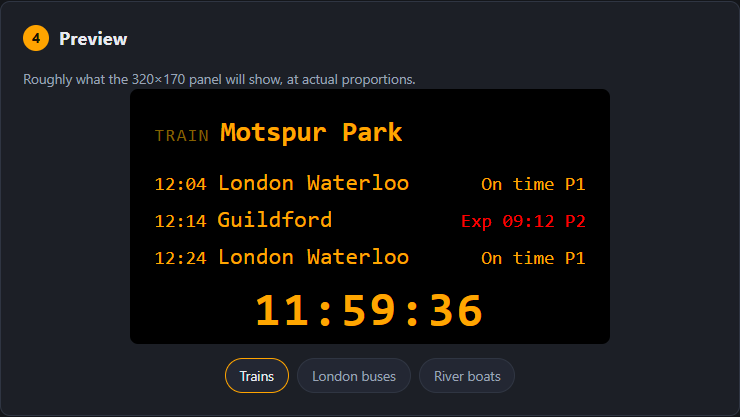
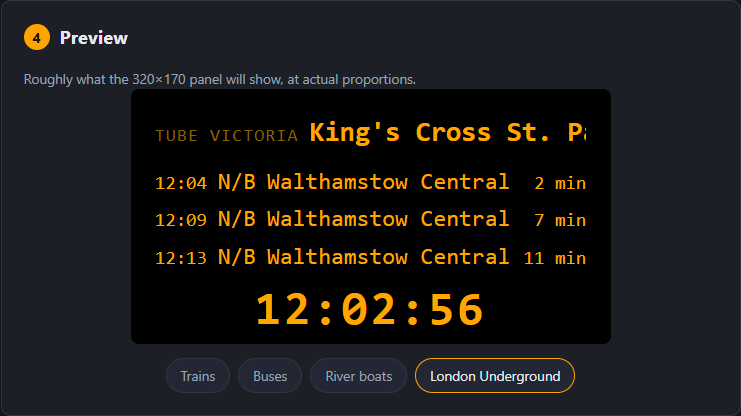
fix(web): stop the preview header wrapping, and document the Tube
The board preview folded its mode tag onto a second line once the tag grew
past a word or so, which "TUBE VICTORIA" was the first to do. The board
itself cannot do that: drawHeader() measures the tag, then gives the name
whatever width is left and scrolls it. The preview now says the same thing
in CSS, so a long tag squeezes the name instead of changing the shape of a
header that is fixed on the device.

The two configurator screenshots in the README were stale beyond the Tube
- they still showed the service list from before buses went national - so
both are regenerated from the live page.

Documentation had the Tube in the feature table and nowhere else. It is now
in the headline, the intro, the "what it shows" gallery, the API-key table
and the TfL attribution, and the web page's own title and subtitle. The
gallery image is a render rather than a photograph, since the other three
are photographs of a board: render_mockup.py grows a Tube board so there is
something pixel-accurate to show, and it doubles as the layout check that
the three-character direction tag clears the destination column.

diff --git a/web/index.html b/web/index.html
@@ -4,15 +4,15 @@
 <meta charset="utf-8">
 <meta name="viewport" content="width=device-width, initial-scale=1">
 <title>Departure Buddy — set up your board</title>
-<meta name="description" content="Configure a Departure Buddy departure board: trains, London buses and Thames river boats on a LilyGo T-Display-S3.">
+<meta name="description" content="Configure a Departure Buddy departure board: trains, London buses, the Underground and Thames river boats on a LilyGo T-Display-S3.">
 <link rel="stylesheet" href="styles.css">
 </head>
 <body>
 
 <header class="top">
   <h1>Departure Buddy</h1>
-  <p class="sub">Live UK trains, London buses and Thames river boats on a small desk board.
-     Set it up here, then send it straight to the device.</p>
+  <p class="sub">Live UK trains, London buses, the Underground and Thames river boats on a
+     small desk board. Set it up here, then send it straight to the device.</p>
 </header>
 
 <main>

diff --git a/web/styles.css b/web/styles.css
@@ -195,7 +195,10 @@ input[type=color] {
   overflow: hidden;
 }
 .b-head { display: flex; align-items: baseline; gap: 2.5%; }
-.b-tag { font-size: 4.2cqw; letter-spacing: 0.06em; }
+/* The tag never wraps and never shrinks: drawHeader() measures it first and
+   gives the name whatever is left, so a long one ("TUBE VICTORIA") squeezes
+   the name rather than folding onto a second line the board does not have. */
+.b-tag { font-size: 4.2cqw; letter-spacing: 0.06em; white-space: nowrap; flex-shrink: 0; }
 .b-name { font-size: 6.4cqw; font-weight: 700; white-space: nowrap; overflow: hidden; }
 .b-rows { margin-top: 2.4%; display: grid; gap: 1.1%; }
 .b-row { display: flex; align-items: baseline; gap: 2.5%; font-size: 5.4cqw; white-space: nowrap; }

diff --git a/docs/render_mockup.py b/docs/render_mockup.py
@@ -9,14 +9,16 @@ Colours are derived from the firmware's own RGB565 constants rather than
 eyeballed, and any theme can be rendered by passing a different palette — the
 board's colours are runtime settings now, so the mockups can show them.
 
-Bus and river share one renderer here because they share one on the device:
-drawArrivalsBoard() draws both, differing only in tag and empty-state text.
+Bus, river and Tube share one renderer here because they share one on the
+device: drawArrivalsBoard() draws all three, differing only in tag and
+empty-state text.
 
 Run with no arguments to regenerate everything:
 
   mockup-train.png        train board
   mockup-bus.png          London bus arrivals
   mockup-river.png        river boat sailings
+  mockup-tube.png         London Underground arrivals
   mockup-clock.png        the full-screen clock
   mockup-weather.png      current conditions
   mockup-scroll-demo.png  train board, delayed + cancelled
@@ -324,6 +326,14 @@ def render_river(pier, line_filter, sailings, out_name, pal=CLASSIC):
                     pier, sailings, "No boats due", out_name, pal)
 
 
+def render_tube(station, line_name, trains, out_name, pal=CLASSIC):
+    """The Tube board. Same renderer again, with one substitution: the line is
+    named once in the tag, so each row's route column carries the direction
+    ("N/B", or "P2" where TfL gives only a platform number) instead."""
+    render_arrivals(f"TUBE {line_name}".upper() if line_name else "TUBE",
+                    station, trains, "No trains due", out_name, pal)
+
+
 if __name__ == "__main__":
     print("Rendering board mockups...")
 
@@ -344,6 +354,12 @@ if __name__ == "__main__":
         {"when": at(23), "line": "RB6", "dest": "Putney Pier",       "eta": eta(23)},
         {"when": at(41), "line": "RB1", "dest": "Barking Riverside", "eta": eta(41)},
     ], "mockup-river.png")
+
+    render_tube("King's Cross St. Pancras", "Victoria", [
+        {"when": at(1),  "line": "N/B", "dest": "Walthamstow Central", "eta": eta(1)},
+        {"when": at(4),  "line": "N/B", "dest": "Seven Sisters",       "eta": eta(4)},
+        {"when": at(7),  "line": "N/B", "dest": "Walthamstow Central", "eta": eta(7)},
+    ], "mockup-tube.png")
 
     render_clock("mockup-clock.png")
 

diff --git a/README.md b/README.md
@@ -2,7 +2,7 @@
 
 # Departure Buddy
 
-### A real departure board for your desk — trains, buses and river boats, live.<br>About £15 of hardware. Ten minutes. No code.
+### A real departure board for your desk — trains, buses, Tube and river boats, live.<br>About £15 of hardware. Ten minutes. No code.
 
 [![Latest firmware](https://img.shields.io/github/v/release/OktaneZA/ESP32Departures?style=for-the-badge&label=firmware&color=2ea44f)](https://github.com/OktaneZA/ESP32Departures/releases/latest)
 [![License](https://img.shields.io/github/license/OktaneZA/ESP32Departures?style=for-the-badge&color=0969da)](LICENSE)
@@ -31,8 +31,9 @@ your front door, or in your kitchen, showing **your** stop.
 
 Shop-bought desktop departure boards
 [start around £165](https://ukdepartureboards.co.uk/store/). This one is a £15
-board and a USB cable, and it does more: trains, London buses, Thames river
-boats, weather and a clock, cycling through whichever you care about.
+board and a USB cable, and it does more: trains, London buses, the Underground,
+Thames river boats, weather and a clock, cycling through whichever you care
+about.
 
 Everything happens in a web page. **You don't write a line of code, edit a
 config file, solder anything, or install a toolchain.** Plug the board into your
@@ -45,13 +46,15 @@ times and it never needs your computer again.
 
 <table>
 <tr>
-<td width="33%"><img src="docs/Train.jpg" alt="Train departures"></td>
-<td width="33%"><img src="docs/Bus.jpg" alt="London bus arrivals"></td>
-<td width="33%"><img src="docs/River.jpg" alt="Thames river boat sailings"></td>
+<td width="25%"><img src="docs/Train.jpg" alt="Train departures"></td>
+<td width="25%"><img src="docs/Bus.jpg" alt="London bus arrivals"></td>
+<td width="25%"><img src="docs/Tube.png" alt="London Underground arrivals"></td>
+<td width="25%"><img src="docs/River.jpg" alt="Thames river boat sailings"></td>
 </tr>
 <tr>
 <td align="center"><b>Trains</b><br><sub>Any UK station, live from National Rail</sub></td>
 <td align="center"><b>Buses</b><br><sub>Any London stop — free, no key needed</sub></td>
+<td align="center"><b>London Underground</b><br><sub>Any Tube station — free, no key needed</sub></td>
 <td align="center"><b>River boats</b><br><sub>Thames Clippers &amp; the Woolwich Ferry</sub></td>
 </tr>
 </table>
@@ -63,8 +66,8 @@ proper dot-matrix font. Enable any combination — the board cycles through them
 |---|---|
 | 🚆 **Trains** | Anywhere in the UK, from National Rail. Filter to a destination or platform |
 | 🚌 **Buses** | Every London stop, live from TfL — **free and keyless**. Rest of the UK via [TransportAPI](docs/transportapi-key.md) |
+| 🚇 **London Underground** | Any Tube station, live from TfL — **free and keyless**. One line in one direction, so every row is a train you can catch |
 | ⛴ **River boats** | Uber Boat by Thames Clippers (RB1/RB4/RB6) and the Woolwich Ferry |
-| 🚇 **Underground** | Any Tube station, live from TfL — **free and keyless**. One line in one direction, so every row is a train you can catch |
 | 🌦 **Weather** | Right where your stop is. No extra setup, no second account |
 | 🕐 **Clock** | NTP-accurate, automatic BST, fills the screen on demand |
 
@@ -228,6 +231,7 @@ times.
 | | Key needed? |
 |---|---|
 | London buses | **No.** TfL's feed is open |
+| London Underground | **No.** Same feed |
 | Thames river boats | **No.** Same feed |
 | Weather | **No** |
 | Clock | **No** |
@@ -292,7 +296,7 @@ photo.
 > [Raspberry Pi rewrite](https://github.com/OktaneZA/PiDepartures). Full lineage
 > in [REQUIREMENTS.md](REQUIREMENTS.md).
 >
-> Bus and river data provided by **Transport for London**. Train data from
+> Bus, Underground and river data provided by **Transport for London**. Train data from
 > **National Rail Darwin** via the [Rail Data Marketplace](https://raildata.org.uk).
 > Station positions contain public sector information licensed under the
 > [Open Government Licence v3.0](https://www.nationalarchives.gov.uk/doc/open-government-licence/version/3/).

diff --git a/DETAILS.md b/DETAILS.md
@@ -11,9 +11,9 @@ For the formal specification — every requirement, with IDs — see
 ## What it does
 
 - Live departures for a station (optionally filtered to a destination or platform)
-- **Trains, buses, boats — any combination** — you choose at setup. The board
-  cycles through whatever is enabled (trains 30s, buses 15s, boats 15s); with a
-  single service it stays on that screen
+- **Trains, buses, Tube, boats — any combination** — you choose at setup. The
+  board cycles through whatever is enabled (trains 30s, buses 15s, Tube 15s,
+  boats 15s); with a single service it stays on that screen
 - **London bus arrivals** for one stop from TfL's open Countdown feed — expected
   time, route number, destination, and a "Due" / "N min" countdown that ticks
   between polls
